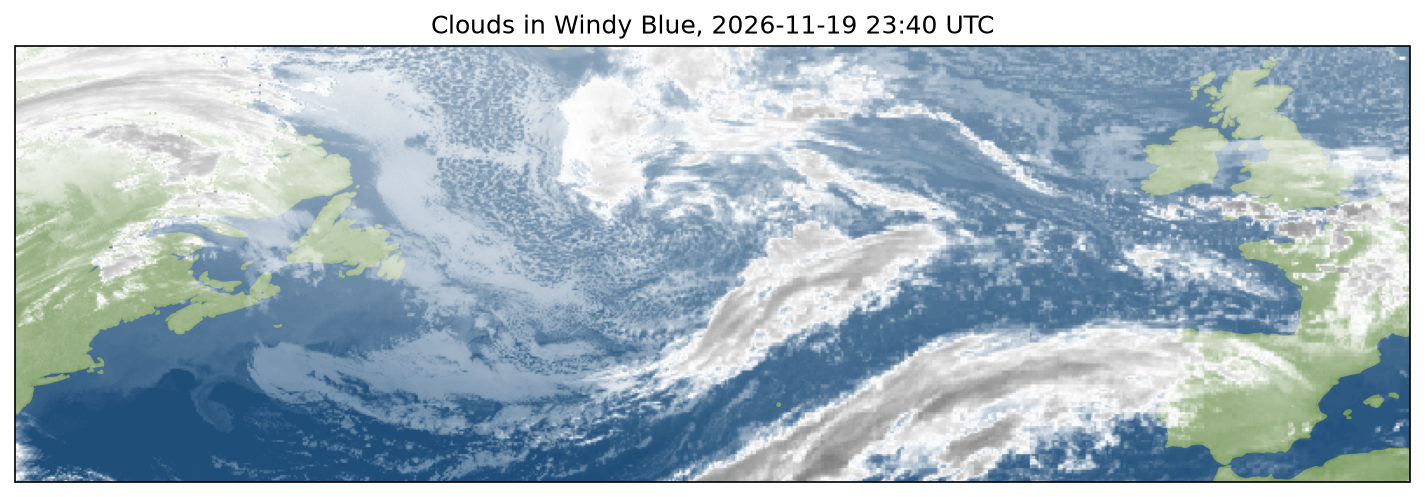
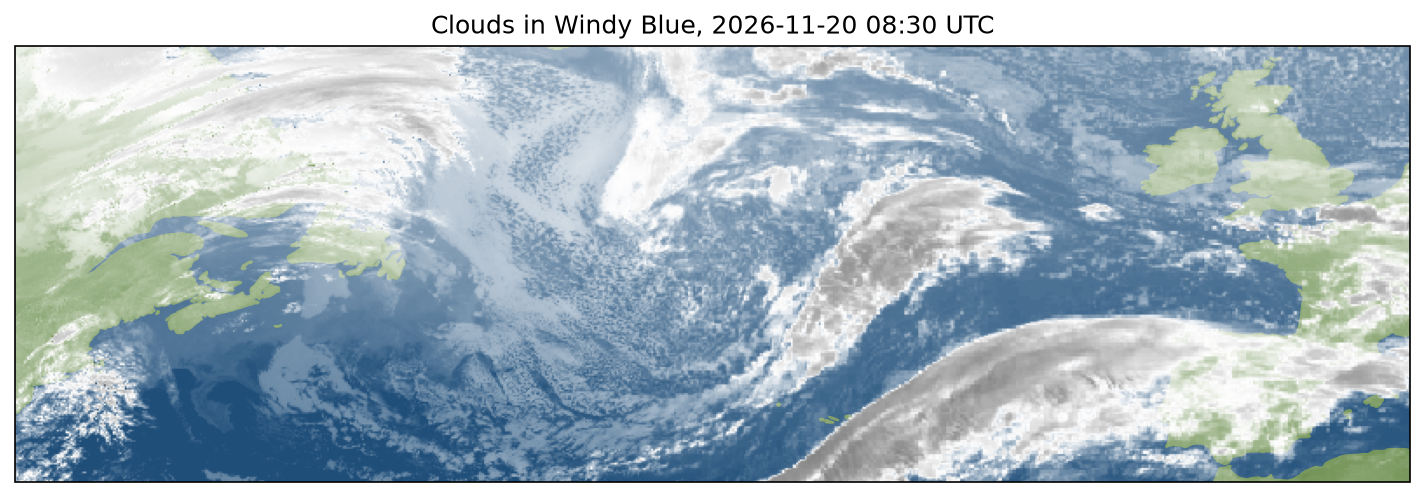
Improve file management

diff --git a/examples/cloud_imagery.py b/examples/cloud_imagery.py
@@ -59,23 +59,25 @@ domain = {"min_lon": -75.0, "max_lon": 5.0, "min_lat": 35.0, "max_lat": 60.0}
 
 # Infrared: the last 3 hours, every 10 min. GIBS is about an hour behind
 # EUMETView, and only the times both have are kept, so the latest image is
-# about an hour old.
-now = pd.Timestamp("now", tz="UTC")
+# about an hour old. Images are kept in ~/data/wms/: a second run opens
+# them from the disk rather than downloading them again, and asks the
+# servers nothing for a period whose times it already knows.
+now = pd.Timestamp("now", tz="UTC").floor("10min")
 end = now
-start = end - pd.Timedelta(hours=3)
+start = end - pd.Timedelta(3, unit="h")
 # start, end = "2026-11-19 12:00Z", "2026-11-19 15:00Z"
 
 # Daylight: 3 hours around the latest midday over the mid-Atlantic (14 UTC),
 # at least an hour ago so that GIBS has it, for the visible
-midday = now.floor("1D") + pd.Timedelta(hours=14)
-if midday > now - pd.Timedelta(hours=2, minutes=30):
-    midday -= pd.Timedelta(days=1)
-visible_start, visible_end = midday - pd.Timedelta(hours=1.5), midday + pd.Timedelta(hours=1.5)
+midday = now.floor("1D") + pd.Timedelta(14, unit="h")
+if midday > now - pd.Timedelta(150, unit="min"):
+    midday -= pd.Timedelta(1, unit="D")
+visible_start, visible_end = midday - pd.Timedelta(1.5, unit="h"), midday + pd.Timedelta(1.5, unit="h")
 
-resolution = 0.1  # deg, about 5 km: 1600 x 500 pixels here, about 1 s an image
+resolution = 0.1  # deg, about 10 km: 800 x 250 pixels here, under 1 s an image
 # resolution = 0.05  # deg, about 5 km: 1600 x 500 pixels here, about 1 s an image
 # resolution = 0.02  # deg, all the detail of the infrared: 4000 x 1250 pixels, 2-3 s an image
-# resolution = 0.01  # deg, all the detail of the infrared: 4000 x 1250 pixels, 2-3 s an image
+# resolution = 0.01  # deg, all the detail of the visible: 8000 x 2500 pixels, 5-7 s an image
 native_resolution = "finest"  # server layers: MTG FCI on EUMETView (1 km IR, 0.5 km visible)
 # native_resolution = "coarsest"  # MSG SEVIRI on EUMETView (3 km, every 15 min); GIBS has one layer per channel
 time_step = None  # every image; "30min" or "1h" for fewer

diff --git a/examples/ascat_sources.py b/examples/ascat_sources.py
@@ -41,7 +41,7 @@ domain = {"min_lon": -20.0, "max_lon": 0.0, "min_lat": 40.0, "max_lat": 52.0}
 # The last 36 hours: Copernicus Marine is about a day behind, so both sources
 # have passes in this period
 end = pd.Timestamp("now", tz="UTC").floor("1h")
-start = end - pd.Timedelta(hours=36)
+start = end - pd.Timedelta(36, unit="h")
 # start, end = "2026-11-17 00:00Z", "2026-11-18 00:00Z"
 
 grid_step = 0.125  # deg, the grid of Copernicus Marine, to match both sources

diff --git a/CLAUDE.md b/CLAUDE.md
@@ -36,7 +36,7 @@ A single test: `python -m pytest tests/optimization/test_opti_rosenbrock.py::tes
 
 Credentials are handled by `architeuthis/credentials.py`, and each is only needed for its provider: `CDS_API_KEY`, `CMEMS_USER`, `CMEMS_PWD`, `EUMDAC_KEY`, `EUMDAC_SECRET` (`CREDENTIALS`). Users save them once with `python -m architeuthis.credentials set NAME...`, which stores them in the OS credential store through `keyring` (service `architeuthis`), reads them back, and removes from `os.environ` the variables of that credential, which would otherwise hide the saved value (⚠ status naming them, never the value). They are read when a download needs them, never at import: environment variables first (the names above, then aliases: `CDSAPI_KEY`, `COPERNICUSMARINE_SERVICE_USERNAME`/`_PASSWORD`, the former `EUMDAC_USER`/`EUMDAC_PWD`), then the store. Data sources call `require_credentials` in their download hook and keep no secret on the object; a missing one raises `MissingCredentialError` after a ⚠ status. Herbie sources (IFS, GFS, HRDPS) need none. The README has a tutorial per provider. Never write a real value in a tracked file, including in a comment.
 
-Downloads are cached under `~/data/` (`common._HOME`, moved by `ARCHITEUTHIS_HOME`, read at import) in `topo/`, `cmems/`, `cds/`, `eumetsat/`, `wms/` (imagery PNGs, by host, layer and box) and `iip/`. `RouteLibrary`, `RouteSetLibrary`, `PassagePlanLibrary` and `ExclusionZoneLibrary` store JSON in `route_library/`, `route_sets/`, `passage_plans/` and `exclusion_zones/`. The UI reads route reports from `routes/`, a different format, written by `ReportCollection.save`. Vessel polars are NetCDF files that are not in the repository.
+Downloads are cached under `~/data/` (`common._HOME`, moved by `ARCHITEUTHIS_HOME`, read at import) in `topo/`, `cmems/`, `cds/`, `eumetsat/`, `wms/` (imagery PNGs, by host, layer and box, with a `times.json` index per layer) and `iip/`. `RouteLibrary`, `RouteSetLibrary`, `PassagePlanLibrary` and `ExclusionZoneLibrary` store JSON in `route_library/`, `route_sets/`, `passage_plans/` and `exclusion_zones/`. The UI reads route reports from `routes/`, a different format, written by `ReportCollection.save`. Vessel polars are NetCDF files that are not in the repository.
 
 Development is Spyder-based: scripts use `#%%` cells and many modules have a `__main__` block used as a manual check.
 
@@ -201,7 +201,7 @@ Speeds in knots, distances in nautical miles, angles in degrees, time in float e
 - `copernicusmarine` takes naive dates as **local** times, not UTC. `CopernicusSatelliteData` passes UTC-aware timestamps; `CopernicusForecast` passes `date` and `end` as given. Its `"strict-inside"` selection refuses a period past the end of a dataset, so satellite data uses `"inside"`, which clips. Importing `copernicusmarine` takes about 3 s, which is why `architeuthis/copernicus.py` exists rather than this code living in `common.py`; mock it with `patch("architeuthis.copernicus.copernicusmarine.subset")`.
 - `ASCATData` is not an `EUMETSATData`: it builds an `EUMETSATASCATData` or a `CopernicusASCATData` per source in `load_data` and keeps the data of the first that loads, catching any exception of the others. ASCAT `wind_dir` is where the wind goes, unlike the meteorological convention of the models.
 - Imagery servers send rendered PNGs, which `WMSImageryData` turns back into brightness temperatures (`bt`, K) with the palette of the layer. EUMETView's grey ramp is calibrated in `EUMETVIEW_CALIBRATIONS`, fitted once against FCI L1c data (SEVIRI against that FCI); another layer needs its own fit. The GIBS IR colormap draws 195-203 K in the greys of 261-328 K: `GIBSData.secondary["ir"]` marks those entries and `image_utils.invert_palette` reads such pixels from their neighbours (`tolerance` 3, a wider one makes most mid-grey sea ambiguous and turns it cold). A grey nearer a secondary entry than any main one is also weighed by its neighbours, in a window 4 times wider when the first holds no unambiguous pixel: GIBS's grey 155 is exactly a 196.5 K entry between 270.8 K and 270.3 K, and read alone it drew cold streaks across warm sea. `uniform_filter` gives about 1e-16 rather than 0 for an empty window, so test counts against half a pixel. Past about 70 deg from GOES-East (east of 5 W), GIBS reads cold; `GeostationaryImagery` gives Meteosat all the weight there.
-- The WMS capabilities of GIBS may lag by an hour or more, depending on the server answering: `GIBSData` takes its times from DescribeDomains (`wms_utils.gibs_time_domain`), falling back on the capabilities. An entirely transparent image (not produced yet) is left out with a ⚠ status and not cached. GIBS is about an hour behind EUMETView, so `GeostationaryImagery` (all sources' times by default) ends about an hour ago.
+- The WMS capabilities of GIBS may lag by an hour or more, depending on the server answering: `GIBSData` takes its times from DescribeDomains (`wms_utils.gibs_time_domain`), falling back on the capabilities. An entirely transparent image (not produced yet) is left out with a ⚠ status and not cached. GIBS is about an hour behind EUMETView, so `GeostationaryImagery` (all sources' times by default) ends about an hour ago. Imagery files are never downloaded twice: `WMSImageryData._times` answers a period inside a `covered` interval of `<layer>/times.json` without asking the server, records after each answer the period up to the last time listed (later times may still come), and offline falls back on the PNGs on disk (`RequestException` only). An empty image is not cached; past `EMPTY_FINAL_AFTER` it is recorded under `empty` for its box and left out by `_locate_data`.
 - Visible imagery has no published calibration on either server: both are read as grey level / 255 (`brightness`), and their relation changes through the day with the sun and viewing angles (GOES-to-Meteosat factor 0.74 at 11 UTC, 0.93 at 13 UTC on 2026-11-19), so `GeostationaryImagery` matches them per image along the seam (`match`, on for the visible only) rather than with a constant. A night image (reference spread under 0.02) is not matched. `windy_colormaps.SATELLITE_STOPS["infra"]` reproduces Windy's Infra+ legend; "blue" is Windy's Blue estimated by eye, whose definition is not published, and carries its own alpha (clear sky transparent above 290 K), which `values_to_rgba` keeps.
 - Imagery channels (`IMAGERY_CHANNELS`) are what is downloaded: each maps to one server layer per source (`wms_layers`) and one quantity in `data`. Colour scales are a drawing option, never a channel: they live in `windy_colormaps` (`SATELLITE_STOPS`, with the quantity each draws in `SATELLITE_QUANTITIES`), and `image(time, channel, colormap=...)` refuses a scale of another quantity; `IMAGERY_COLORMAPS` gives each channel its default. Only "ir" and "visible" exist on both EUMETView and GIBS (water vapour on MSG only, the rest colour composites). A source with several channels keeps the times every channel has, and stores its pixels as `rgba_<channel>` in `output_path/<server layer>/<box>/`. Two resolutions are distinct: `resolution` is the grid, which sets the size of the requested images and so the download time (the reason to use these servers is speed), and `native_resolution` picks among the server layers of a channel (`EUMETVIEW_LAYERS`, `GIBS_LAYERS`, by native resolution, finest first), which barely changes the time. Images are fetched `DOWNLOAD_WORKERS` at a time, in tiles above `wms_utils.MAX_SIZE`, converted and composited image by image to keep the memory low; `image(scale=...)` smooths for display. `GeostationaryImagery.data["gain"]` and `["offset"]` are on (channel, source, valid_time).
 - `core.berg_zone` and `icebergs.berg_zone` are computed when they are read (module `__getattr__`), so `from architeuthis.icebergs import berg_zone` fetches the iceberg limit at that line.

diff --git a/docs/user_guide.md b/docs/user_guide.md
@@ -57,7 +57,7 @@ for key in ("bhp", "max_bhp", "sails_contribution"):
 | `forecast.CopernicusForecast` | Currents and other products of Copernicus Marine. Needs an account, `CMEMS_USER` and `CMEMS_PWD`. |
 | `forecast.CDSForecast` | ERA5 reanalysis. Needs an account, `CDS_API_KEY`. |
 | `satellite.ASCATData` | ASCAT winds over a period and a box, to validate forecasts: from EUMETSAT (`EUMDAC_KEY`, `EUMDAC_SECRET`), the latest swaths, else from Copernicus Marine (`CMEMS_USER`, `CMEMS_PWD`), daily gridded swaths about a day behind. `sources="cmems"` uses Copernicus Marine only, and `source` tells which one was used. The variables are the same either way: `lat`, `lon`, `time`, `valid_time`, `wind_speed` in m/s and `wind_dir`, where the wind goes to, in degrees. `EUMETSATASCATData` and `CopernicusASCATData` are the two sources. |
-| `satellite.GeostationaryImagery` | Cloud images over a box and a period, every 10 min, as one continuous layer from Meteosat (`EUMETViewData`) and GOES-East (`GIBSData`). No account. The channels are chosen as the variables of a forecast, `channels="ir"` (default) or a list of `"ir"` (infrared, day and night) and `"visible"` (by day). `data` then holds `bt`, the brightness temperature in K, for `"ir"`, and `brightness`, from 0 to 1, for `"visible"`, the levels of GOES matched to those of Meteosat along the seam; on `valid_time`, `latitude`, `longitude`, at `resolution` degrees. `resolution` sets the size of the requested images, hence the download time: 0.05 over the North Atlantic (1600 x 500 pixels) takes about a second an image, four at a time; 0.02 shows all the detail of the infrared and 0.01 of the visible (`DETAIL_RESOLUTIONS`), best on a small domain. `native_resolution` chooses the server layer where a server has several: `"finest"` (default), `"coarsest"`, a resolution such as `"3km"` (MSG SEVIRI rather than MTG FCI on EUMETView), or one per channel, `{"ir": "3km"}`. How they look is chosen when drawing: `image(time, "ir", colormap="blue")` draws a loaded channel as an RGBA array, north up, with a colour scale of Windy, `"infra"` (Infra+, the default of `"ir"`) or `"blue"` (Blue, clear sky transparent) for `"ir"` and `"visible"` for `"visible"`; `transparent_above=275` fades out the clear sky of any scale. `image(time, box=(-60, -52, 44, 49), scale=4)` draws a part of the domain with each pixel interpolated into 4 x 4 (`order=1` bilinear, the default, `order=3` bicubic), the values interpolated before being coloured, and `extent(box)` gives where it lies, `[west, east, south, north]` for `imshow`. `toolbox.windy_colormaps.get_satellite_cmap(colormap)` gives the colormap and norm for a colour bar, and `bounds` the corners for a map overlay. `complete=False` keeps the times of any satellite rather than those of all. `EUMETViewData` and `GIBSData` take the same `channels` for one satellite each; `GIBSData(wms_layers={"ir": ...})` takes GOES-West or Himawari. |
+| `satellite.GeostationaryImagery` | Cloud images over a box and a period, every 10 min, as one continuous layer from Meteosat (`EUMETViewData`) and GOES-East (`GIBSData`). No account. The channels are chosen as the variables of a forecast, `channels="ir"` (default) or a list of `"ir"` (infrared, day and night) and `"visible"` (by day). `data` then holds `bt`, the brightness temperature in K, for `"ir"`, and `brightness`, from 0 to 1, for `"visible"`, the levels of GOES matched to those of Meteosat along the seam; on `valid_time`, `latitude`, `longitude`, at `resolution` degrees. `resolution` sets the size of the requested images, hence the download time: 0.05 over the North Atlantic (1600 x 500 pixels) takes about a second an image, four at a time; 0.02 shows all the detail of the infrared and 0.01 of the visible (`DETAIL_RESOLUTIONS`), best on a small domain. `native_resolution` chooses the server layer where a server has several: `"finest"` (default), `"coarsest"`, a resolution such as `"3km"` (MSG SEVIRI rather than MTG FCI on EUMETView), or one per channel, `{"ir": "3km"}`. How they look is chosen when drawing: `image(time, "ir", colormap="blue")` draws a loaded channel as an RGBA array, north up, with a colour scale of Windy, `"infra"` (Infra+, the default of `"ir"`) or `"blue"` (Blue, clear sky transparent) for `"ir"` and `"visible"` for `"visible"`; `transparent_above=275` fades out the clear sky of any scale. `image(time, box=(-60, -52, 44, 49), scale=4)` draws a part of the domain with each pixel interpolated into 4 x 4 (`order=1` bilinear, the default, `order=3` bicubic), the values interpolated before being coloured, and `extent(box)` gives where it lies, `[west, east, south, north]` for `imshow`. `toolbox.windy_colormaps.get_satellite_cmap(colormap)` gives the colormap and norm for a colour bar, and `bounds` the corners for a map overlay. `complete=False` keeps the times of any satellite rather than those of all. `EUMETViewData` and `GIBSData` take the same `channels` for one satellite each; `GIBSData(wms_layers={"ir": ...})` takes GOES-West or Himawari. Files are managed as those of the forecasts: nothing on disk is downloaded again. Each image is a PNG in `~/data/wms/<host>/<layer>/<box>/`, opened rather than downloaded when it is there; the times a server listed for a layer, and the periods they cover, are kept in `<layer>/times.json`, so that loading a period again asks the server nothing (💾 statuses). An image still empty `satellite.EMPTY_FINAL_AFTER` (3 h) after its time is recorded there and not asked again, whereas a more recent one may not be produced yet and is asked again by a later run. If a server cannot be reached, the images of the period on disk are used, with a ⚠ status. The GIBS colormaps are kept in `<host>/colormaps/`. |
 | `forecast.Topography` | The signed distance to land and to your exclusion zones. It needs only its box, and `exclusion_zones` if you have some. |
 | `vessel.Vessel` | A vessel, from its polar file, from functions (see [Polars as functions](#polars-as-functions)) or from constants. The routing only needs its consumption (see [Consumption](#consumption)). `label` comes from the file name by default, `eff45` for `..._eff45.nc`, or is the name without a file. |
 

diff --git a/CHANGELOG.md b/CHANGELOG.md
@@ -190,6 +190,7 @@ and this project follows Semantic Versioning https://semver.org
 - `architeuthis.copernicus` holds what forecasts and satellite data share for Copernicus Marine: the `CopernicusMarineData` mixin, whose `_subset` downloads a subset with the credentials, and `copernicusmarine_credentials_file()`.
 - Geostationary cloud imagery, without account, whose channels are chosen as the variables of a forecast, with `channels` (`satellite.IMAGERY_CHANNELS`): `"ir"` (infrared, day and night) and `"visible"` (by day), the only single channels that both servers give. `satellite.EUMETViewData` (Meteosat from EUMETView: MTG FCI HRFI IR 10.5 um at 1 km and VIS 0.6 um at 0.5 km, or MSG SEVIRI at 3 km) and `satellite.GIBSData` (GOES-East ABI bands 13 and 2 from NASA GIBS, or GOES-West and Himawari layers through `wms_layers`), both `WMSImageryData`, download the server layer of each channel over a box, a period and a resolution, every 10 min, at the times every channel has, cached in `~/data/wms/`. `native_resolution` chooses the server layer where a server has several for a channel (`"finest"` by default, `"coarsest"`, `"3km"`..., or one per channel, `satellite.native_layers`); `resolution` sets the size of the requested images, hence the download time (about 1 s an image of 1600 x 500 pixels, four at a time); `DETAIL_RESOLUTIONS` gives the grid that shows all the detail of the finest layers. Images larger than `wms_utils.MAX_SIZE` (4096 pixels) are requested in tiles that join on the pixel grid (`wms_utils.get_map_array`). Their colours are turned back into a common scale: brightness temperatures (`bt`, in K) for the infrared, with a calibrated grey ramp for EUMETView and the published colormap for GIBS, both agreeing within 1.6 K (median) over the Atlantic; a brightness from 0 to 1 (`brightness`) for the visible.
 - `satellite.GeostationaryImagery` joins several of them into one continuous layer: each pixel from the satellite that sees it the most directly, blended over a few degrees along the seam, a failing source left out with a ⚠ status. In the visible, where the brightness of a scene depends on the angles of the sun and the satellite, the levels of the other sources are matched to the first along the seam, image by image (`gain`, `offset`). `image(time, channel, colormap=...)` draws a channel with a colour scale of Windy chosen when drawing, by default that of the channel (`IMAGERY_COLORMAPS`), clear sky or dark sea optionally transparent, ready for a map layer; `bounds` gives its corners. `image(box=..., scale=4)` draws a part of the domain with each pixel interpolated into 4 x 4 (`image_utils.rescale`, bilinear by default, `order=3` bicubic): the values are interpolated before being coloured, so the steps of a colour scale stay sharp; `extent(box)` places it.
+- Satellite imagery: files are managed as those of the forecasts: nothing on disk is downloaded again. Each image is a PNG in `~/data/wms/<host>/<layer>/<box>/`, opened rather than downloaded when it is there; the times a server listed for a layer, and the periods they cover, are kept in `<layer>/times.json`, so that loading a period again asks the server nothing (💾 statuses). An image still empty `satellite.EMPTY_FINAL_AFTER` (3 h) after its time is recorded there and not asked again, whereas a more recent one may not be produced yet and is asked again by a later run. If a server cannot be reached, the images of the period on disk are used, with a ⚠ status. The GIBS colormaps are kept in `<host>/colormaps/`.
 - `toolbox.windy_colormaps.get_satellite_cmap(name, quantity=None)`, beside the wind and wave colormaps, gives the colormap and norm of each satellite colour scale (`SATELLITE_STOPS`, the quantity each draws in `SATELLITE_QUANTITIES`): for the brightness temperature, `"infra"` the legend of Windy's Infra+ (grey to white at 240 K, then coloured cloud tops from blue to dark red at 182 K) and `"blue"` Windy's Blue as estimated by eye (clear sky transparent at 290 K, translucent white at 270 K, opaque white at 250 K, darker to dark grey at 190 K); for the brightness, `"visible"` black to white. `image_utils.values_to_rgba` keeps the alpha of a colormap.
 - `toolbox.wms_utils`: WMS requests (capabilities, time extent and times of a layer, maps), the times of a GIBS layer from DescribeDomains and the GIBS colormaps. `toolbox.image_utils`: PNG decoding and encoding, palette inversion (including palettes that repeat colours), smooth resizing that keeps NaN in place, values drawn on a colour scale, matching of levels by quantiles, smooth blending weights and blending, animated GIFs. `toolbox.geo_utils.central_angle`.
 - `examples/cloud_imagery.py` loads the last hours of infrared and the visible around the latest midday over the North Atlantic, checks both satellites on their overlap, and draws each source, the combined layer, the share of each satellite, the three colour scales at the same time, a zoom on Saint-Pierre-et-Miquelon downloaded at 0.01 deg and drawn 4 times finer, the clouds in Windy Blue over a map and an animation.
